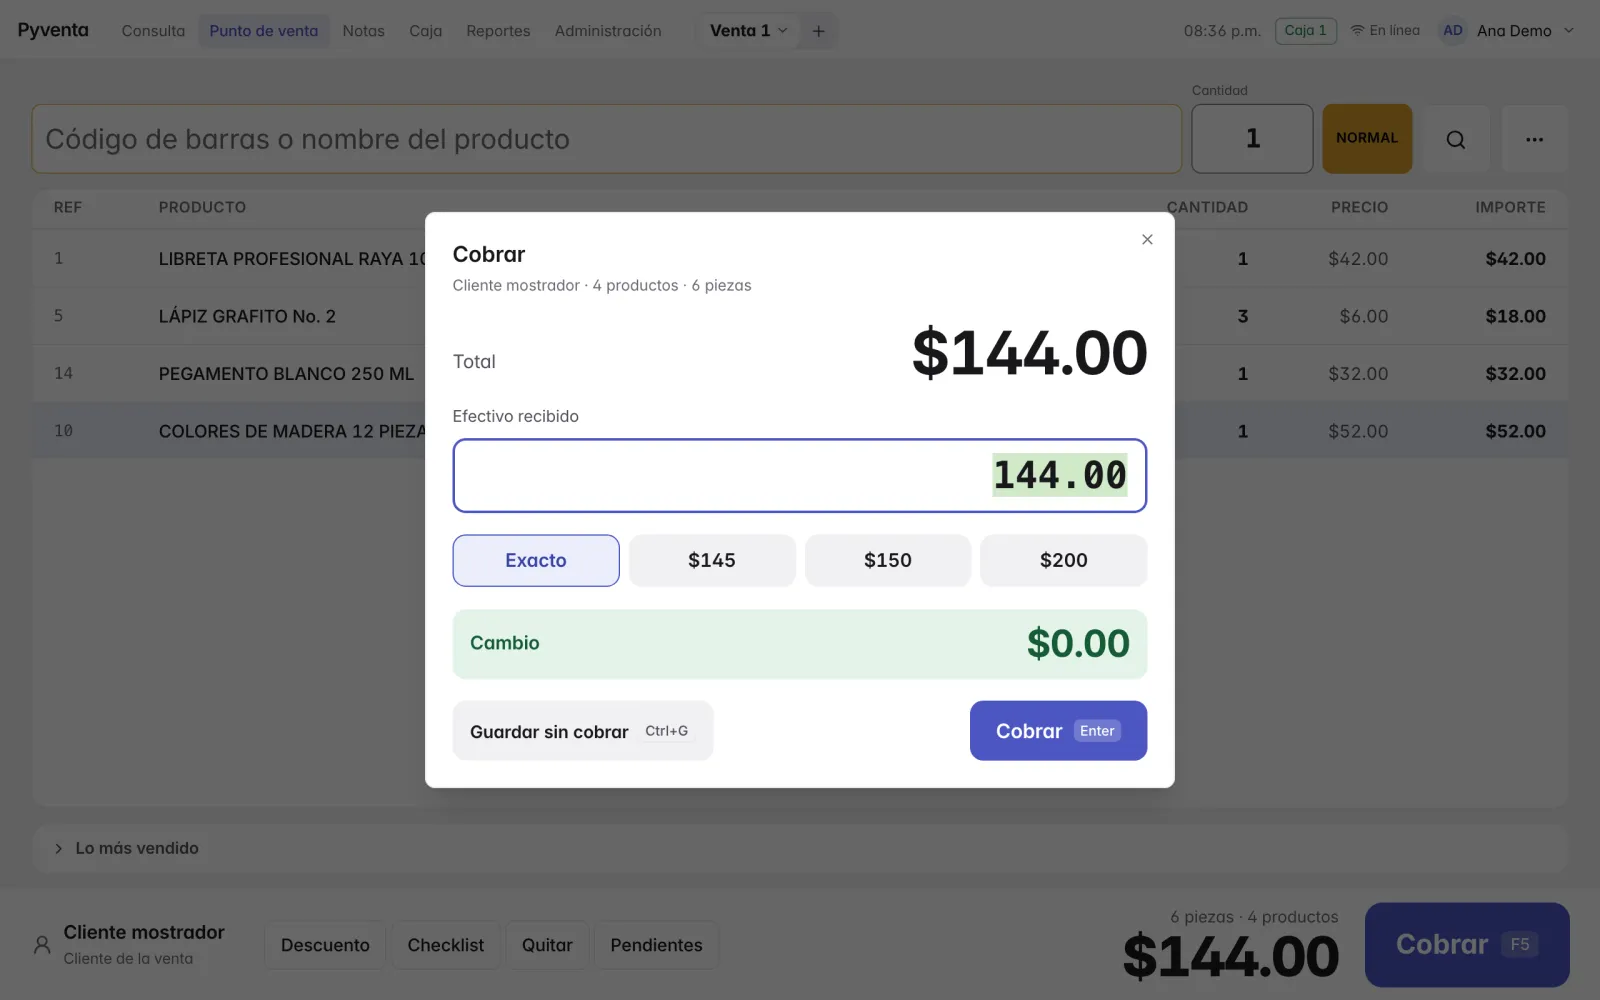
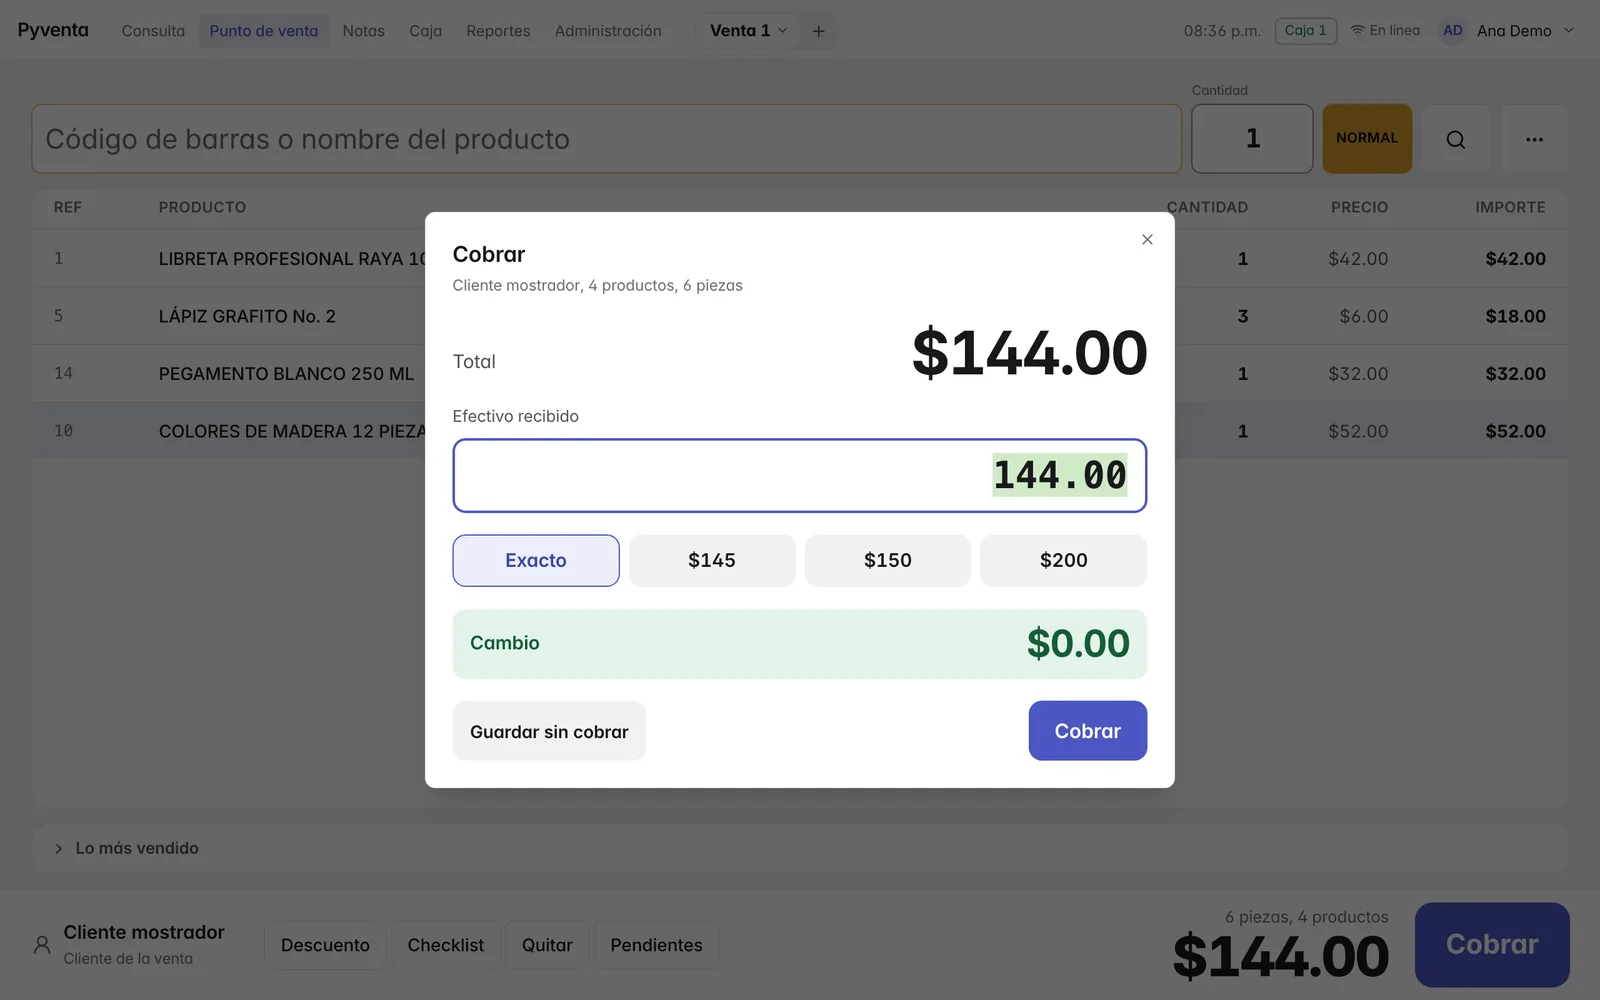
NOE-558 Pyventa page: review fixes
- Recaptured every POS screen without middle dots or shortcut keycaps, clock matching the receipt
- «Cobra en un toque» caption, «Se cae el internet» holds longer, no empty frame before «A pedido»
- Monitor moves to center as the receipt fades; mobile phone screens change one at a time

diff --git a/src/projects/pyventa/pyventa.mount.ts b/src/projects/pyventa/pyventa.mount.ts
@@ -45,9 +45,9 @@ type Screen = [string] | [string, Mode, [number, number]]
 const DS: Screen[] = [[pos4], [pos0, 'fade', [.075, .095]], [pos1, 'wipe', [.13, .156]], [pos2, 'wipe', [.21, .236]], [pos3, 'wipe', [.29, .316]], [pos4, 'wipe', [.37, .396]],
   [cobro0, 'fade', [.448, .457]], [cobro, 'fade', [.50, .506]], [cambio, 'fade', [.545, .554]],
   [off0, 'fade', [.752, .762]], [off1, 'wipe', [.785, .812]], [offCobro, 'fade', [.828, .837]], [offCambio, 'fade', [.858, .867]], [off3, 'fade', [.885, .894]]]
-const MS: Screen[] = [[mPos4], [mPos0, 'fade', [.075, .095]], [mPos1, 'fade', [.13, .142]], [mPos2, 'fade', [.21, .222]], [mPos3, 'fade', [.29, .302]], [mPos4, 'fade', [.37, .382]],
-  [mCobro0, 'fade', [.448, .457]], [mCobro, 'fade', [.50, .506]], [mCambio, 'fade', [.545, .554]],
-  [mOff0, 'fade', [.752, .762]], [mOff1, 'fade', [.785, .797]], [mOffCobro, 'fade', [.828, .837]], [mOffCambio, 'fade', [.858, .867]], [mOff3, 'fade', [.885, .894]]]
+const MS: Screen[] = [[mPos4], [mPos0, 'fade', [.07, .095]], [mPos1, 'fade', [.125, .15]], [mPos2, 'fade', [.205, .23]], [mPos3, 'fade', [.285, .31]], [mPos4, 'fade', [.365, .39]],
+  [mCobro0, 'fade', [.44, .462]], [mCobro, 'fade', [.494, .512]], [mCambio, 'fade', [.538, .558]],
+  [mOff0, 'fade', [.744, .766]], [mOff1, 'fade', [.781, .801]], [mOffCobro, 'fade', [.822, .842]], [mOffCambio, 'fade', [.852, .872]], [mOff3, 'fade', [.879, .899]]]
 const TS = [.13, .21, .29, .37] // the four scans
 
 type Key = 'mon' | 'ph' | 'prn' | 'sg' | 'rcp'
@@ -55,15 +55,15 @@ type Shot = 'rcpH' | 'hero' | 'scan' | 'pay' | 'tick' | 'phn'
 // key, the object it names, the shot it is placed in, the side, and the window it shows in
 const TAGS: [string, string, Shot, 'below' | 'right', number, number][] = [
   ['reader', 'sg', 'scan', 'below', .115, .40], ['line', 'main', 'scan', 'below', .20, .42],
-  ['f5', 'main', 'pay', 'below', .452, .50], ['change', 'main', 'pay', 'below', .515, .57],
+  ['charge', 'main', 'pay', 'below', .452, .50], ['change', 'main', 'pay', 'below', .515, .57],
   ['ticket', 'prn', 'tick', 'right', .618, .715],
-  ['drop', 'main', 'pay', 'below', .762, .80], ['offsale', 'main', 'pay', 'below', .808, .865], ['sends', 'main', 'pay', 'below', .872, .896],
+  ['drop', 'main', 'pay', 'below', .748, .803], ['offsale', 'main', 'pay', 'below', .811, .865], ['sends', 'main', 'pay', 'below', .872, .896],
   ['phone', 'ph', 'phn', 'right', .932, .972]]
 
 const NAT: Record<Key, [number, number]> = { mon: [1000, 730], ph: [300, 650], prn: [300, 560], sg: [300, 340], rcp: [540, 900] }
 const GAP = 40, LH = 22, SIDE = 24, TOP = 76
 
-interface Pose { x: number; y: number; s: number; ry: number; rx: number; rz?: number; o: number }
+interface Pose { x: number; y: number; s: number; ry: number; rx: number; rz?: number; o: number; e?: 1 }
 type Keys = [number, Pose][]
 
 const cl = (x: number, a = 0, b = 1) => Math.min(b, Math.max(a, x))
@@ -200,7 +200,6 @@ export const mountPyventa: Mount<ProjectData> = (root, { lang, first }, { reduce
       const s = Math.min(aw * .93 / NAT.mon[0], (vh * .54) / NAT.mon[1], (room - NAT.sg[1] * .82) / NAT.mon[1])
       const my0 = TOP + 10 + NAT.mon[1] * s / 2
       S0.hero = { mon: { x: ax0 + aw / 2, y: my0, s, ry: -10, rx: 3, o: 1 } }
-      S0.heroFlat = { mon: { x: ax0 + aw / 2, y: my0, s, ry: 0, rx: 0, o: 1 } }
       const sgs = Math.min(1.05, (vh * .38) / NAT.sg[1], (room - NAT.mon[1] * s) / NAT.sg[1])
       heroSg = { x: vw - SIDE - NAT.sg[0] * sgs / 2 - 4, y: (vh - 30) - NAT.sg[1] * sgs / 2, s: sgs, ry: 0, rx: 0, o: 1 }
       glowC = [ax0 + aw / 2, my0 + 20, Math.min(aw * 1.35, vh * 1.2)]
@@ -226,7 +225,6 @@ export const mountPyventa: Mount<ProjectData> = (root, { lang, first }, { reduce
       const ay0 = yb + 22, ay1 = vh - SIDE, ah = ay1 - ay0
       const sph = Math.min(ah / NAT.ph[1], (vw * .5) / NAT.ph[0])
       S0.hero = { ph: { x: SIDE + NAT.ph[0] * sph / 2 + 4, y: ay0 + NAT.ph[1] * sph / 2, s: sph, ry: 0, rx: 0, o: 1 } }
-      S0.heroFlat = S0.hero
       const sgs = Math.min(ah / NAT.sg[1] * .95, (vw - 2 * SIDE - NAT.ph[0] * sph - 14) / NAT.sg[0])
       heroSg = { x: vw - SIDE - NAT.sg[0] * sgs / 2, y: ay1 - NAT.sg[1] * sgs / 2, s: sgs, ry: 0, rx: 0, o: 1 }
       glowC = [vw / 2, ay0 + ah / 2, Math.max(vw * 1.3, ah * 1.4)]
@@ -250,10 +248,10 @@ export const mountPyventa: Mount<ProjectData> = (root, { lang, first }, { reduce
     K.rcp = [[0, R], [.012, R], [.034, Object.assign({}, R, { y: R.y + 20, s: R.s * .99, ry: R.ry + 6, rz: 2.5, o: 0 })], [.052, Object.assign({}, R, { y: R.y + 64, s: R.s * .985, ry: R.ry + 10, rz: 4.5, o: 0 })], [1, Object.assign({}, R, { y: R.y + 64, o: 0 })]]
     K.sg = [[0, HS], [.045, HS], [.075, z(HS, 0)], [.088, z(B.sg, 0)], [.10, B.sg], [.42, B.sg], [.445, z(B.sg, 0)], [1, z(B.sg, 0)]]
     if (!por) {
-      K.mon = [[0, A.mon], [.015, A.mon], [.06, S0.heroFlat.mon], [.10, B.mon], [.42, B.mon], [.445, Cc.mon], [.575, Cc.mon], [.60, z(Cc.mon, 0)], [.725, z(Cc.mon, 0)], [.75, Cc.mon], [.90, Cc.mon], [.925, z(Cc.mon, 0)], [1, z(Cc.mon, 0)]]
-      K.ph = [[0, z(E.ph, 0)], [.90, z(E.ph, 0)], [.925, E.ph], [.968, E.ph], [.982, z(E.ph, 0)], [1, z(E.ph, 0)]]
+      K.mon = [[0, A.mon], [.034, A.mon], [.10, Object.assign({ e: 1 as const }, B.mon)], [.42, B.mon], [.445, Cc.mon], [.575, Cc.mon], [.60, z(Cc.mon, 0)], [.725, z(Cc.mon, 0)], [.75, Cc.mon], [.90, Cc.mon], [.925, z(Cc.mon, 0)], [1, z(Cc.mon, 0)]]
+      K.ph = [[0, z(E.ph, 0)], [.90, z(E.ph, 0)], [.925, E.ph], [.968, E.ph], [.978, z(E.ph, 0)], [1, z(E.ph, 0)]]
     } else {
-      K.ph = [[0, A.ph], [.055, A.ph], [.10, B.ph], [.42, B.ph], [.445, Cc.ph], [.575, Cc.ph], [.60, z(Cc.ph, 0)], [.725, z(Cc.ph, 0)], [.75, Cc.ph], [.968, Cc.ph], [.982, z(Cc.ph, 0)], [1, z(Cc.ph, 0)]]
+      K.ph = [[0, A.ph], [.055, A.ph], [.10, B.ph], [.42, B.ph], [.445, Cc.ph], [.575, Cc.ph], [.60, z(Cc.ph, 0)], [.725, z(Cc.ph, 0)], [.75, Cc.ph], [.968, Cc.ph], [.978, z(Cc.ph, 0)], [1, z(Cc.ph, 0)]]
     }
     K.prn = [[0, z(D.prn, 0)], [.575, z(D.prn, 0)], [.60, D.prn], [.725, D.prn], [.75, z(D.prn, 0)], [1, z(D.prn, 0)]]
     KEYS = K
@@ -276,17 +274,25 @@ export const mountPyventa: Mount<ProjectData> = (root, { lang, first }, { reduce
   function poseAt(keys: Keys, p: number): Pose {
     let i = 0
     while (i < keys.length - 2 && p > keys[i + 1][0]) i++
-    const a = keys[i], b = keys[i + 1], t = EIO(S(p, a[0], b[0])), A = a[1], B = b[1]
+    const a = keys[i], b = keys[i + 1], t = (b[1].e ? EO : EIO)(S(p, a[0], b[0])), A = a[1], B = b[1]
     return { x: A.x + (B.x - A.x) * t, y: A.y + (B.y - A.y) * t, s: A.s + (B.s - A.s) * t, ry: A.ry + (B.ry - A.ry) * t, rx: A.rx + (B.rx - A.rx) * t, rz: (A.rz || 0) + ((B.rz || 0) - (A.rz || 0)) * t, o: A.o + (B.o - A.o) * t }
   }
   function screens(list: HTMLElement[], defs: Screen[], p: number, wipe: boolean) {
     for (let i = 0; i < list.length; i++) {
       const d = defs[i], w = d[2], mode = d[1], el = list[i]
+      const nx = i < defs.length - 1 ? defs[i + 1][2] : null
+      if (!wipe) {
+        // Phone: one screen at a time. The old one leaves in the first half of the next window, the new one arrives in the second half.
+        let o = w ? EO(S(p, (w[0] + w[1]) / 2, w[1])) : 1
+        if (nx) o *= 1 - EO(S(p, nx[0], (nx[0] + nx[1]) / 2))
+        put(el, 'visibility', o < .01 ? 'hidden' : 'visible'); put(el, 'opacity', o.toFixed(3)); put(el, 'clipPath', 'none')
+        continue
+      }
       let e = 1
       if (w) e = S(p, w[0], w[1])
-      const nx = i < defs.length - 1 ? defs[i + 1][2] : null, covered = !!nx && p >= nx[1]
+      const covered = !!nx && p >= nx[1]
       put(el, 'visibility', (w && e <= 0) || covered ? 'hidden' : 'visible')
-      if (mode === 'wipe' && wipe) { put(el, 'clipPath', e >= 1 ? 'none' : `inset(0 ${((1 - EIO(e)) * 100).toFixed(2)}% 0 0)`); put(el, 'opacity', '1') }
+      if (mode === 'wipe') { put(el, 'clipPath', e >= 1 ? 'none' : `inset(0 ${((1 - EIO(e)) * 100).toFixed(2)}% 0 0)`); put(el, 'opacity', '1') }
       else if (mode) { put(el, 'opacity', EO(e).toFixed(3)); put(el, 'clipPath', 'none') }
     }
   }
@@ -300,7 +306,7 @@ export const mountPyventa: Mount<ProjectData> = (root, { lang, first }, { reduce
     put(glow, 'opacity', (1 - S(p, .03, .12)).toFixed(3))
     const hv = 1 - S(p, .045, .075)
     if ((hv > 0) !== W.heroOn) { W.heroOn = hv > 0; W.sg.classList.toggle('hero-on', hv > 0) }
-    const eo = S(p, .986, .998) * (1 - S(sy, W.top + W.span, W.top + W.span + W.vh * .3))
+    const eo = S(p, .979, .992) * (1 - S(sy, W.top + W.span, W.top + W.span + W.vh * .3))
     put(end, 'opacity', eo.toFixed(3)); put(end, 'visibility', eo > 0 ? 'visible' : 'hidden')
     // the screens
     if (!por) {

diff --git a/src/projects/pyventa/data.ts b/src/projects/pyventa/data.ts
@@ -15,7 +15,7 @@ export interface PyventaCopy {
   plat: string
   cta: string
   // Labels beside the scenes of the scroll story.
-  t: { reader: string; line: string; f5: string; change: string; ticket: string; drop: string; offsale: string; sends: string; phone: string }
+  t: { reader: string; line: string; charge: string; change: string; ticket: string; drop: string; offsale: string; sends: string; phone: string }
   metaTitle: string
   metaDescription: string
 }
@@ -27,7 +27,7 @@ export const COPY: Record<Lang, PyventaCopy> = {
     price: 'A pedido',
     plat: 'Para tiendas, en la web y en el celular.',
     cta: 'Solicítalo',
-    t: { reader: 'Lee el código de barras', line: 'Renglón, precio y total', f5: 'Cobra con F5', change: 'Cambio al instante', ticket: 'Sale el ticket', drop: 'Se cae el internet', offsale: 'La venta sigue', sends: 'Se envía al volver', phone: 'El celular escanea precios' },
+    t: { reader: 'Lee el código de barras', line: 'Renglón, precio y total', charge: 'Cobra en un toque', change: 'Cambio al instante', ticket: 'Sale el ticket', drop: 'Se cae el internet', offsale: 'La venta sigue', sends: 'Se envía al volver', phone: 'El celular escanea precios' },
     metaTitle: 'Pyventa Web: punto de venta que sigue sin internet | Noé Osorio',
     metaDescription: 'Punto de venta para tiendas, en la web y en el celular. Cobra con lector de código de barras, imprime el ticket y sigue vendiendo aunque se caiga el internet.',
   },
@@ -37,7 +37,7 @@ export const COPY: Record<Lang, PyventaCopy> = {
     price: pitch.price,
     plat: 'For shops, on the web and on the phone.',
     cta: pitch.cta![0],
-    t: { reader: 'Reads the barcode', line: 'Line, price and total', f5: 'Charge with F5', change: 'Change due', ticket: 'The ticket prints', drop: 'The internet drops', offsale: 'The sale still goes through', sends: 'It sends itself when back', phone: 'Phone as price scanner' },
+    t: { reader: 'Reads the barcode', line: 'Line, price and total', charge: 'Charge in one tap', change: 'Change due', ticket: 'The ticket prints', drop: 'The internet drops', offsale: 'The sale still goes through', sends: 'It sends itself when back', phone: 'Phone as price scanner' },
     metaTitle: 'Pyventa Web: a point of sale that keeps selling offline | Noé Osorio',
     metaDescription: `${card.text} ${pitch.how} ${pitch.edge}`,
   },
